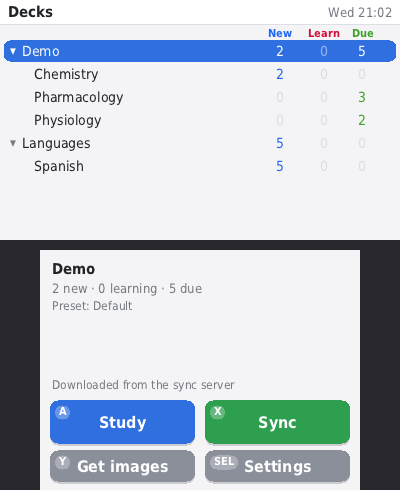
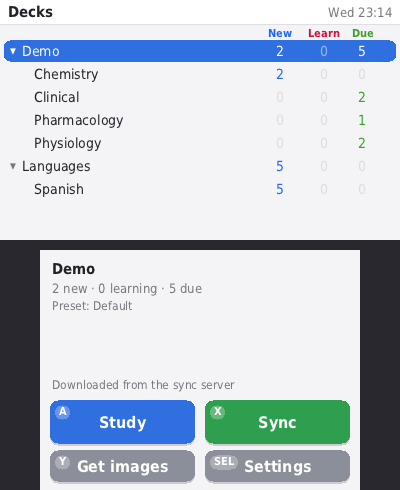
Version 0.3.0, with the README and screenshots updated for automatic sync and the magnifier

diff --git a/tools/screenshots.py b/tools/screenshots.py
@@ -38,6 +38,10 @@ select Physiology
 key A
 key A
 shot physio-1
+touch 207 19
+drag 160 120 210 60 10
+shot zoom
+key B
 touch 280 19
 shot menu
 touch 230 166
@@ -51,7 +55,7 @@ key A
 key A
 shot physio-2
 touch 280 19
-touch 80 214
+touch 160 214
 shot buttons
 key B
 key START
@@ -71,7 +75,7 @@ key RIGHT
 key B
 """
 
-KEEP = ["decks", "question", "answer-fraction", "physio-1", "physio-2", "menu", "scratchpad", "buttons",
+KEEP = ["decks", "question", "answer-fraction", "physio-1", "physio-2", "menu", "scratchpad", "zoom", "buttons",
         "settings", "night"]
 
 
@@ -92,6 +96,22 @@ def main():
                 shutil.copy(src, os.path.join(OUT, f"{name}.png"))
             else:
                 print("missing", name)
+    # the two strips the README shows
+    from PIL import Image
+
+    def strip(names, out, scale=0.6, gap=16):
+        ims = [Image.open(os.path.join(OUT, n + ".png")).convert("RGB") for n in names]
+        ims = [i.resize((int(i.width * scale), int(i.height * scale)), Image.LANCZOS) for i in ims]
+        w = sum(i.width for i in ims) + gap * (len(ims) - 1)
+        o = Image.new("RGB", (w, max(i.height for i in ims)), (255, 255, 255))
+        x = 0
+        for i in ims:
+            o.paste(i, (x, 0))
+            x += i.width + gap
+        o.save(os.path.join(OUT, out), optimize=True)
+
+    strip(["decks", "answer-fraction", "physio-1", "night"], "overview.png")
+    strip(["menu", "scratchpad", "zoom", "buttons"], "features.png")
     print("screenshots in", OUT)
 
 

diff --git a/tools/demo_collection.py b/tools/demo_collection.py
@@ -64,7 +64,8 @@ def main():
     n = add(cloze, pharm, {"Text": "Elimination half-life: {{c1::\\(t_{1/2} = \\dfrac{0.693 \\times V_d}{CL}\\)}}",
                            "Back Extra": "Doubling the volume of distribution doubles the half-life if clearance is unchanged."})
     due += n.card_ids()
-    n = add(cloze, pharm, {"Text": "A drug with a {{c1::high}} hepatic extraction ratio has clearance limited mostly by "
+    clin = deck("Demo::Clinical")
+    n = add(cloze, clin, {"Text": "A drug with a {{c1::high}} hepatic extraction ratio has clearance limited mostly by "
                                    "{{c2::liver blood flow}}."})
     due += n.card_ids()
     n = add(basic, phys, {"Front": "What does a right shift of the oxyhaemoglobin curve mean?",

diff --git a/core/version.h b/core/version.h
@@ -1,6 +1,6 @@
 // One place for the app's version. Still alpha: expect rough edges.
 #pragma once
-#define ANKI3DS_VERSION "0.2.0"
-#define ANKI3DS_VERSION_LABEL "0.2.0 alpha"
+#define ANKI3DS_VERSION "0.3.0"
+#define ANKI3DS_VERSION_LABEL "0.3.0 alpha"
 #define APP_NAME "Clamshell"  // an Anki-compatible client; "Anki" stays out of the name
 #define APP_ID "clamshell"    // SD folder, sync client name, user agent

diff --git a/README.md b/README.md
@@ -2,18 +2,18 @@
 
 An Anki-compatible flashcard client for the New Nintendo 3DS. Clamshell is unofficial: it works with your [Anki](https://apps.ankiweb.net/) collection, but isn't made by the Anki team. It reviews your own Anki collection with exactly the same scheduling as desktop Anki (FSRS included), shows cards with their HTML, CSS, images, MathJax and template JavaScript, and syncs with an Anki sync server so reviews carry over to your other devices.
 
-**Status: alpha (0.2.0).** It works day to day on a New 3DS, but expect rough edges, and keep backups of your collection as you would with any new client.
+**Status: alpha (0.3.0).** It works day to day on a New 3DS, but expect rough edges, and keep backups of your collection as you would with any new client.
 
 <p align="center"><img src="docs/screenshots/overview.png" alt="Deck list, a card with a stacked fraction, a card with an image, and night mode" width="100%"></p>
-<p align="center"><img src="docs/screenshots/features.png" alt="The More menu, the stylus scratchpad, button settings and the settings screen" width="100%"></p>
+<p align="center"><img src="docs/screenshots/features.png" alt="The More menu, the stylus scratchpad, the magnifier and button settings" width="100%"></p>
 
 ## What it does
 
 - **Same scheduling as desktop.** The scheduler is a line-by-line port of Anki 26.08: FSRS 6, learning steps, fuzz, the load balancer, sibling burying, daily limits and the study queue's ordering. It's checked against Anki itself (see [How it's tested](#how-its-tested)), so a card answered on the 3DS gets the interval desktop would have given it.
-- **Two-way sync** with an Anki sync server, using Anki's own protocol. Reviews, card changes, deck limits and studied-today counts all sync. Images for the cards you're about to study download automatically.
+- **Two-way sync** with an Anki sync server, using Anki's own protocol. Reviews, card changes, deck limits and studied-today counts all sync, automatically when Clamshell opens and after you finish studying if you like. Images for the cards you're about to study download automatically.
 - **Cards look like they do on a phone.** HTML and CSS layout (via litehtml), tables, PNG/JPEG/GIF/WebP/SVG images, Image Occlusion, stacked fractions and common MathJax, night mode, and adjustable text size. Cards are presented the way AnkiDroid and AnkiMobile present them, so templates use their small-screen layouts.
 - **Card templates' JavaScript runs** (via QuickJS), so things like Malleus's one-by-one clozes and collapsible resource sections work, driven from the buttons.
-- **Made for the console.** Answer with the face buttons, scroll with the circle pad, and set what L, R, ZL, ZR and ◀ ▶ do, either for every note type or per note type. The touch screen has bury, suspend, flags and mark, and can become a scratchpad for working things out with the stylus.
+- **Made for the console.** Answer with the face buttons, scroll with the circle pad, and set what L, R, ZL, ZR and ◀ ▶ do, either for every note type or per note type. The touch screen has bury, suspend, flags and mark, a magnifier that redraws part of the card at 2× or 3× so small text and figures are readable, and can become a scratchpad for working things out with the stylus. Closing the lid pauses the answer timer.
 - **Safe with your data.** It never replaces the server's copy of your collection. If the two sides can't be merged, it will only offer to download the server's copy, and it tells you how many unsynced reviews that would discard.
 
 ## Syncing: why not AnkiWeb?
@@ -31,13 +31,13 @@ The app has never connected to AnkiWeb, and AnkiWeb sign-in isn't included in bu
 
 You need a New 3DS or New 2DS XL with the Homebrew Launcher (any custom firmware set-up, e.g. from [3ds.hacks.guide](https://3ds.hacks.guide/)). Older 3DS models may work but are untested and will be slow.
 
-1. **Install the app.** Copy `clamshell.3dsx` to `sdmc:/3ds/` on the SD card.
+1. **Install the app.** Download `clamshell.3dsx` from the [latest release](https://github.com/Sabicool/clamshell/releases) and copy it to `sdmc:/3ds/` on the SD card.
 2. **Start a sync server** (see above) and note its address, e.g. `http://192.168.1.20:8080/`, plus the username and password you gave it.
 3. **Move desktop Anki to it.** Preferences → Syncing → Self-hosted sync server → paste the address, then sync and sign in. The first time, choose **Upload to server**. To go back to AnkiWeb later, clear that field and sync again.
 4. **On the 3DS**, open Clamshell from the Homebrew Launcher, choose **Sign in to my sync server**, and enter the address, username and password. It downloads your collection; a large one takes a few minutes over the 3DS's Wi-Fi.
 5. **Check the clock.** The 3DS has no time zone setting, so the app uses the one desktop Anki recorded (Settings → Time zone, marked *auto*). If the time on the deck list is wrong, fix the 3DS's date and time in System Settings; servers refuse to sync when clocks are more than five minutes apart.
 
-Press **X** on the deck list to sync. Anything that goes wrong is written to `sdmc:/3ds/clamshell/log.txt`.
+Clamshell syncs when it opens and after you finish studying (Settings → Sync automatically changes this), or press **X** on the deck list any time. If it can't reach the server, for example away from home, it says so on the deck list and you can carry on studying. Anything that goes wrong is written to `sdmc:/3ds/clamshell/log.txt`.
 
 To just try it without a server, close desktop Anki and copy your `collection.anki2` (and any images, from `collection.media`) into `sdmc:/3ds/clamshell/`. The app opens it directly, but reviews made that way can't be synced back.
 
@@ -49,7 +49,8 @@ To just try it without a server, close desktop Anki and copy your `collection.an
 | Question | **A** show answer · ↑↓ or circle pad scroll · **SELECT** undo · **START** back to decks |
 | Answer | **B** Again · **Y** Hard · **A** Good · **X** Easy, or tap the buttons |
 | Shoulder buttons and ◀ ▶ | By default: L/R page up/down, ZL sends N to the card (Malleus: next cloze on the front, next resource on the back), ZR shows the sections templates hide behind buttons, ◀ ▶ send ← → (Malleus: hide/reveal one-by-one clozes). Change them in Settings → Buttons, or per note type from **More → Buttons**. A button can do an app action (page, extra sections, undo, menu, scratchpad, bury, suspend, mark, a flag colour) or send any keyboard key to the card. |
-| Touch screen | **More**: bury card/note, suspend card/note, flag colours, mark note, scratchpad, buttons. **SELECT** undoes these like answers. |
+| Touch screen | **Zoom** opens the magnifier. **More**: bury card/note, suspend card/note, flag colours, mark note, scratchpad, zoom, buttons. **SELECT** undoes card actions like answers. |
+| Magnifier | The bottom screen shows the boxed part of the card at 2× or 3× (tap to switch). Drag with the stylus or use the circle pad to move around; **B** closes it. |
 | Scratchpad | Draw with the stylus; **Clear** wipes it, and it clears itself for each new card. The face buttons still answer, with the intervals shown along the bottom. |
 
 ## Known limitations
@@ -73,6 +74,8 @@ The scheduling and sync code are compared with the official `anki` 26.08 Python 
 - `tools/emutest.py`: runs the real 3DS build in the [Azahar](https://azahar-emu.org/) emulator against a local sync server: sign in, download, study, use the menu and scratchpad, sync, and check the reviews reached desktop. `tools/screenshots.py` takes this page's screenshots the same way, from a small demo collection.
 
 ## Building
+
+Every push to GitHub is built and tested by a GitHub Action, and pushing a version tag (`v0.3.0`, matching `core/version.h`) publishes a release with `clamshell.3dsx` attached.
 
 Desktop tools and tests (macOS or Linux, with a C++17 compiler and libcurl):
 
